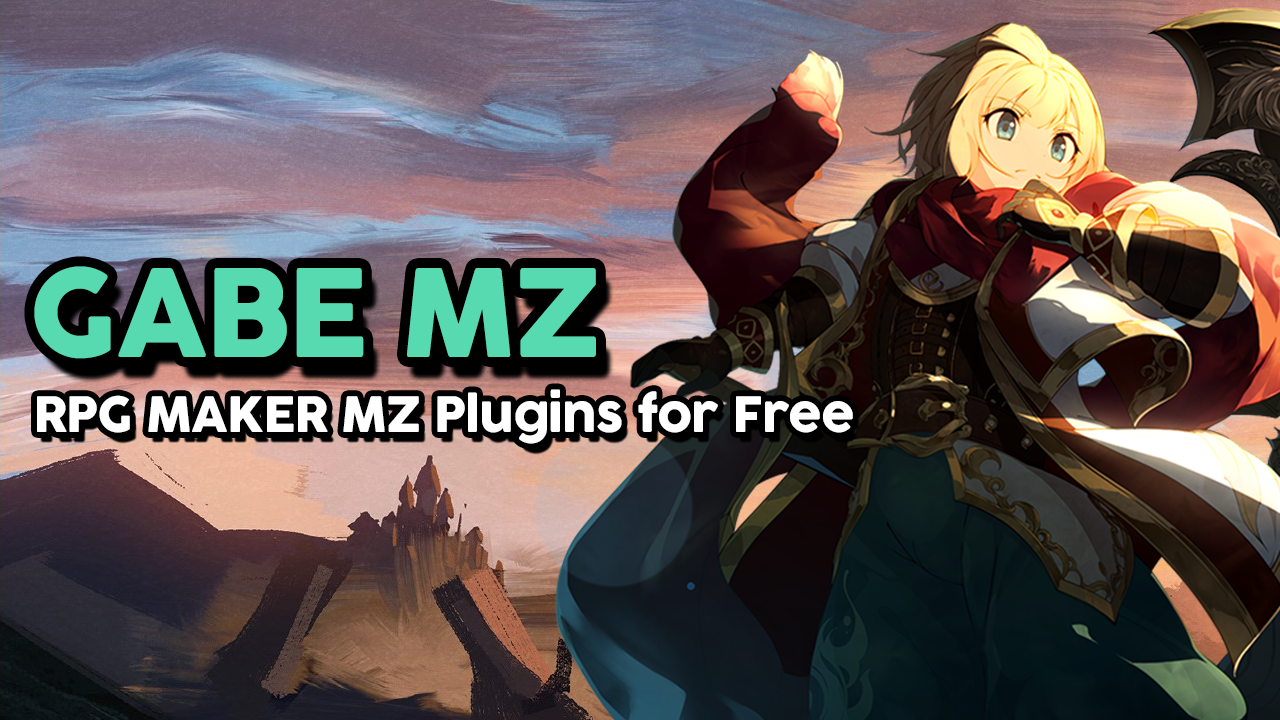
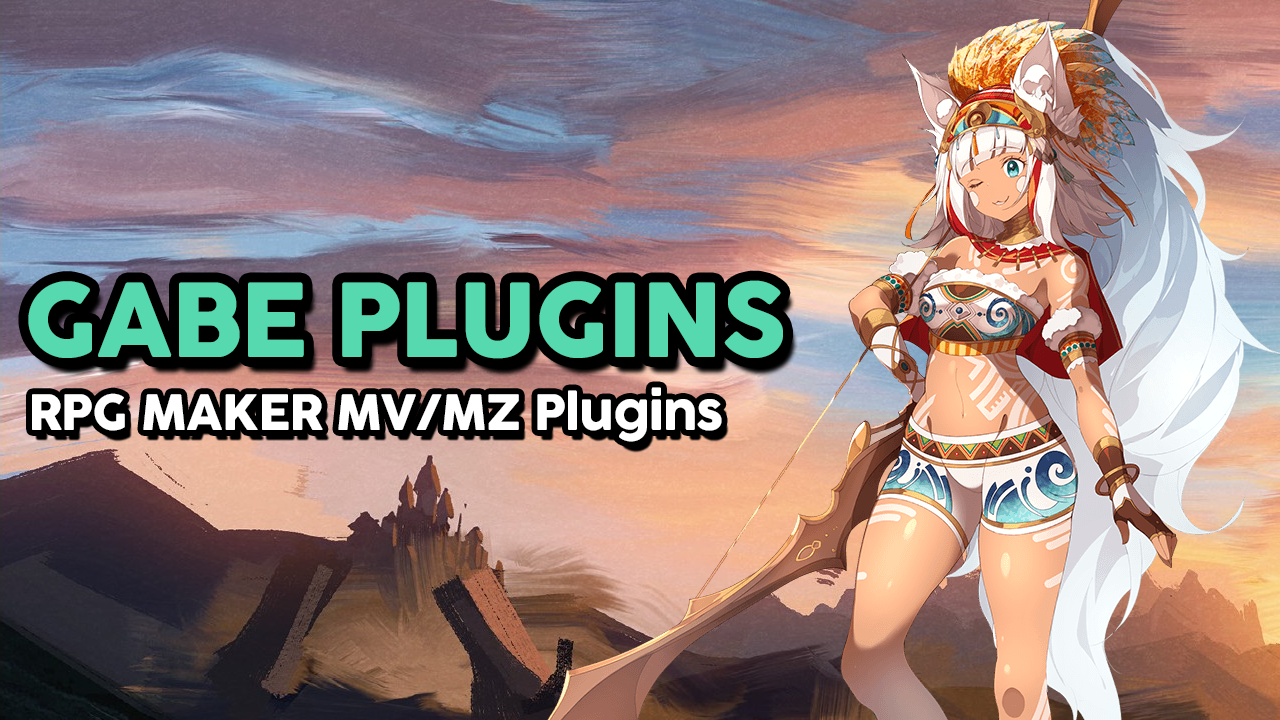
update

diff --git a/index.md b/index.md
@@ -1,5 +1,5 @@
 ---
-title: "Gabe MZ"
+title: "Gabe Plugins"
 author: "Gabriel"
 date: "10/09/20"
 output: 
@@ -26,5 +26,3 @@ I hope my work can be useful. :)
 
 For the complete documentation of all my plugins check the list at the link below:
 ## [Gabe MZ - Plugins Documentation](Plugins)
-
-<iframe frameborder="0" src="https://itch.io/embed/749105" width="552" height="167"><a href="https://dromarch.itch.io/akea-battle-camera">Akea - Battle Camera by Gabriel</a></iframe>
